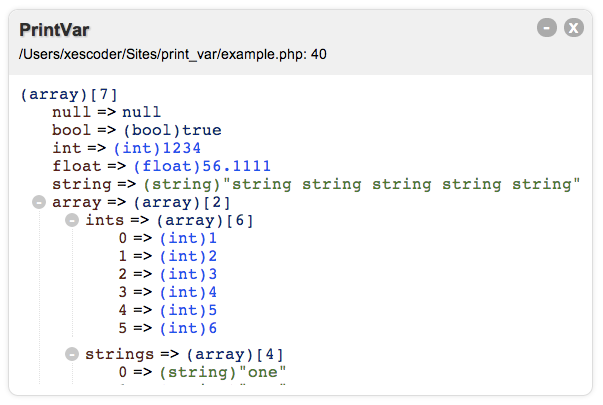
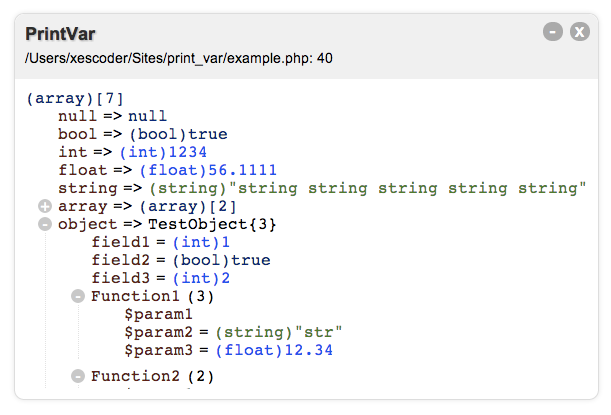
edit readme

Changed region(s): [[0.0, 0.2074, 0.9851, 0.9778], [0.0299, 0.0593, 0.5672, 0.1778], [0.8955, 0.0296, 0.9851, 0.1185]]

diff --git a/example.php b/example.php
@@ -7,11 +7,11 @@ class TestObject{
     public $field2 = true;
     public $field3 = 2;
 
-    public function Method1($param1=null, $param2='str', $param3=12.34){
+    public function Function1($param1, $param2='str', $param3=12.34){
 
     }
 
-    public function Method2($param1, $param2){
+    public function Function2($param1, $param2){
 
     }
 }

diff --git a/README.md b/README.md
@@ -5,9 +5,11 @@ Print Var
 
 Плюшки:
 * Переменная распечатывается в диалоговом окне, не ломая вёрстку сайта,
-* В шапке диалогового окна выводится информация о файле и строке в файле в которой вызвана функция,
+* В шапке диалогового окна выводится информация о файле и строке в файле, в которой вызвана функция,
 * Вместе со значением переменной выводится информация о её типе,
-* Значение массивов и объектов можно сворачивать.
+; Значение массивов, объектов и функций можно сворачивать
+* Для переменных типа объект выводится информация о публичных полях и функциях,
+* Для функций выводится список параметров вместе со значениями по-умолчанию.
 
 <p align="center">
   <img src="https://github.com/xescoder/print_var/blob/master/example.png?raw=true">
